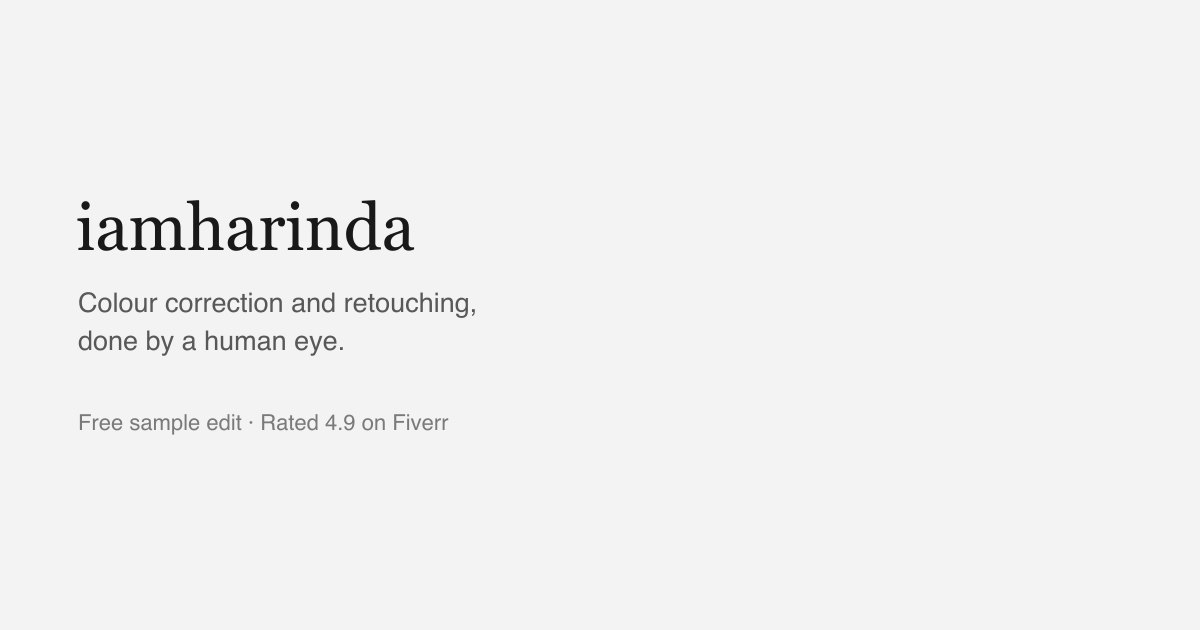
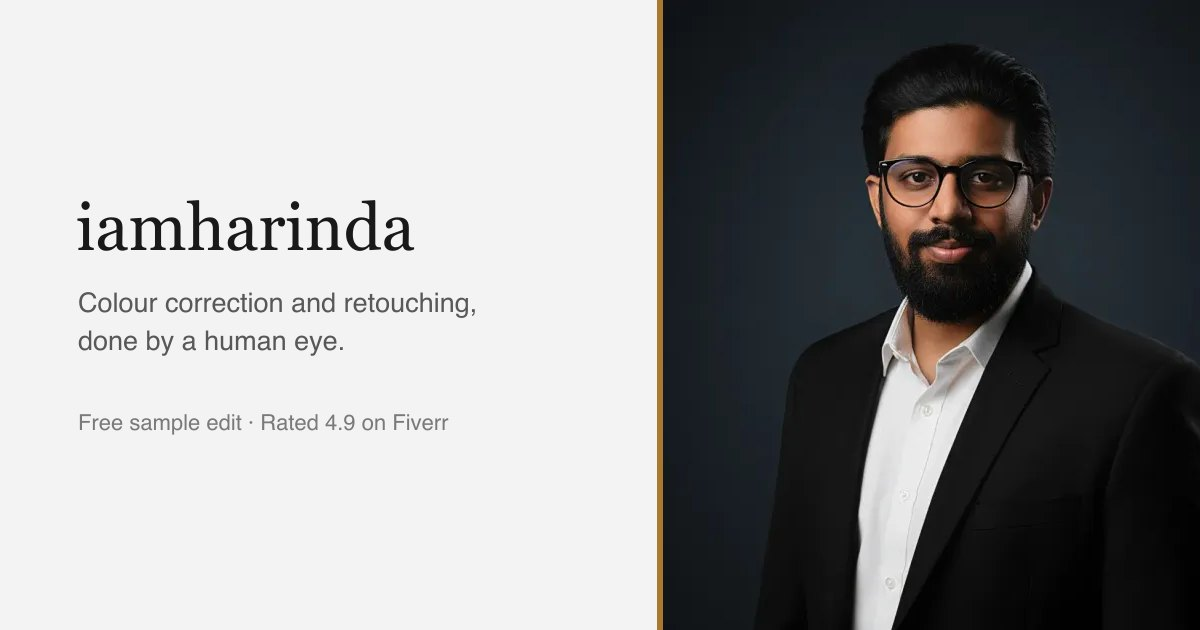
auto: og-default.jpg site.js

diff --git a/src/data/site.js b/src/data/site.js
@@ -292,9 +292,20 @@ export const site = {
     },
   ],
 
+  // ── Portraits ───────────────────────────────────────────────────────────
+  //  Source files live in /photos-source/ (not deployed). Re-run
+  //  `npm run optimise:photos` after changing them.
+  aboutImage: {
+    src: "/images/about-harinda.webp",
+    alt: "Harinda Fernando at his desk, a colour-calibrated monitor showing a landscape photo and a colour wheel behind him.",
+    width: 1600,
+    height: 1067,
+  },
+  personImage: "/images/harinda-portrait.webp", // 800×800, used in structured data
+
   // ── SEO defaults ─────────────────────────────────────────────────────────
   seo: {
-    ogImage: "/og/og-default.jpg", // TODO: a real 1200×630 export
+    ogImage: "/og/og-default.jpg", // 1200×630, generated by npm run optimise:photos
     twitterHandle: "", // TODO: "@yourhandle" if you have one, otherwise leave blank
     locale: "en_US",
   },
